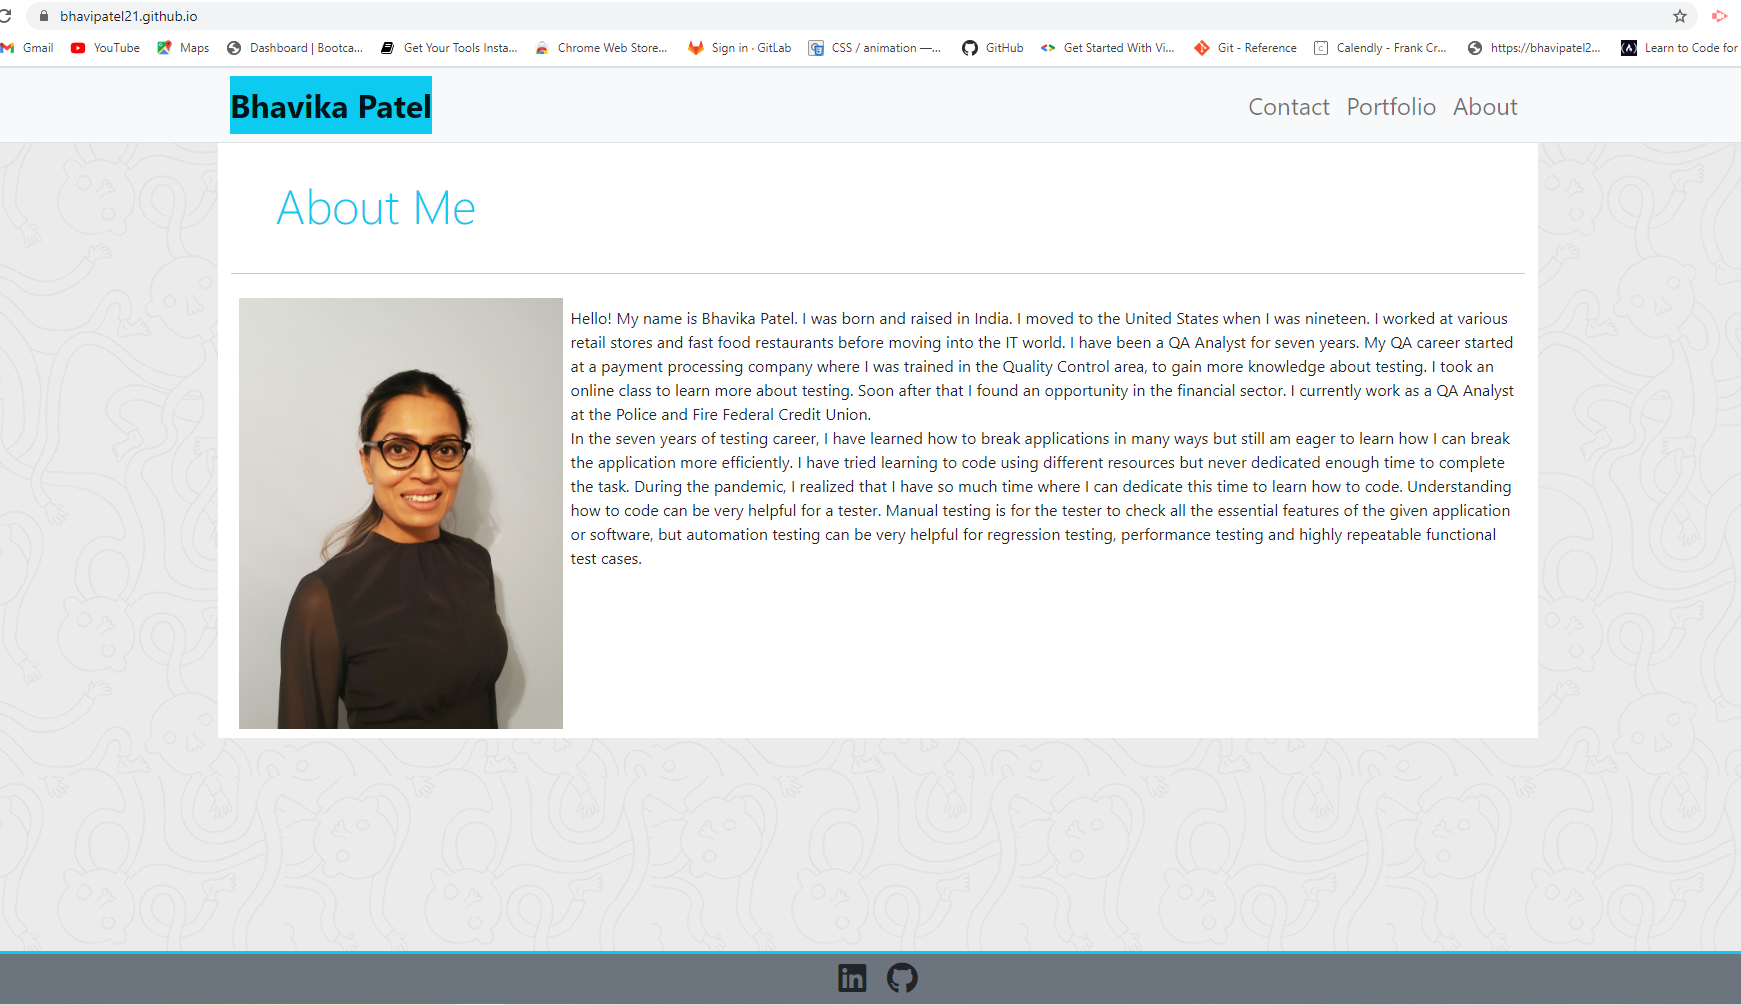
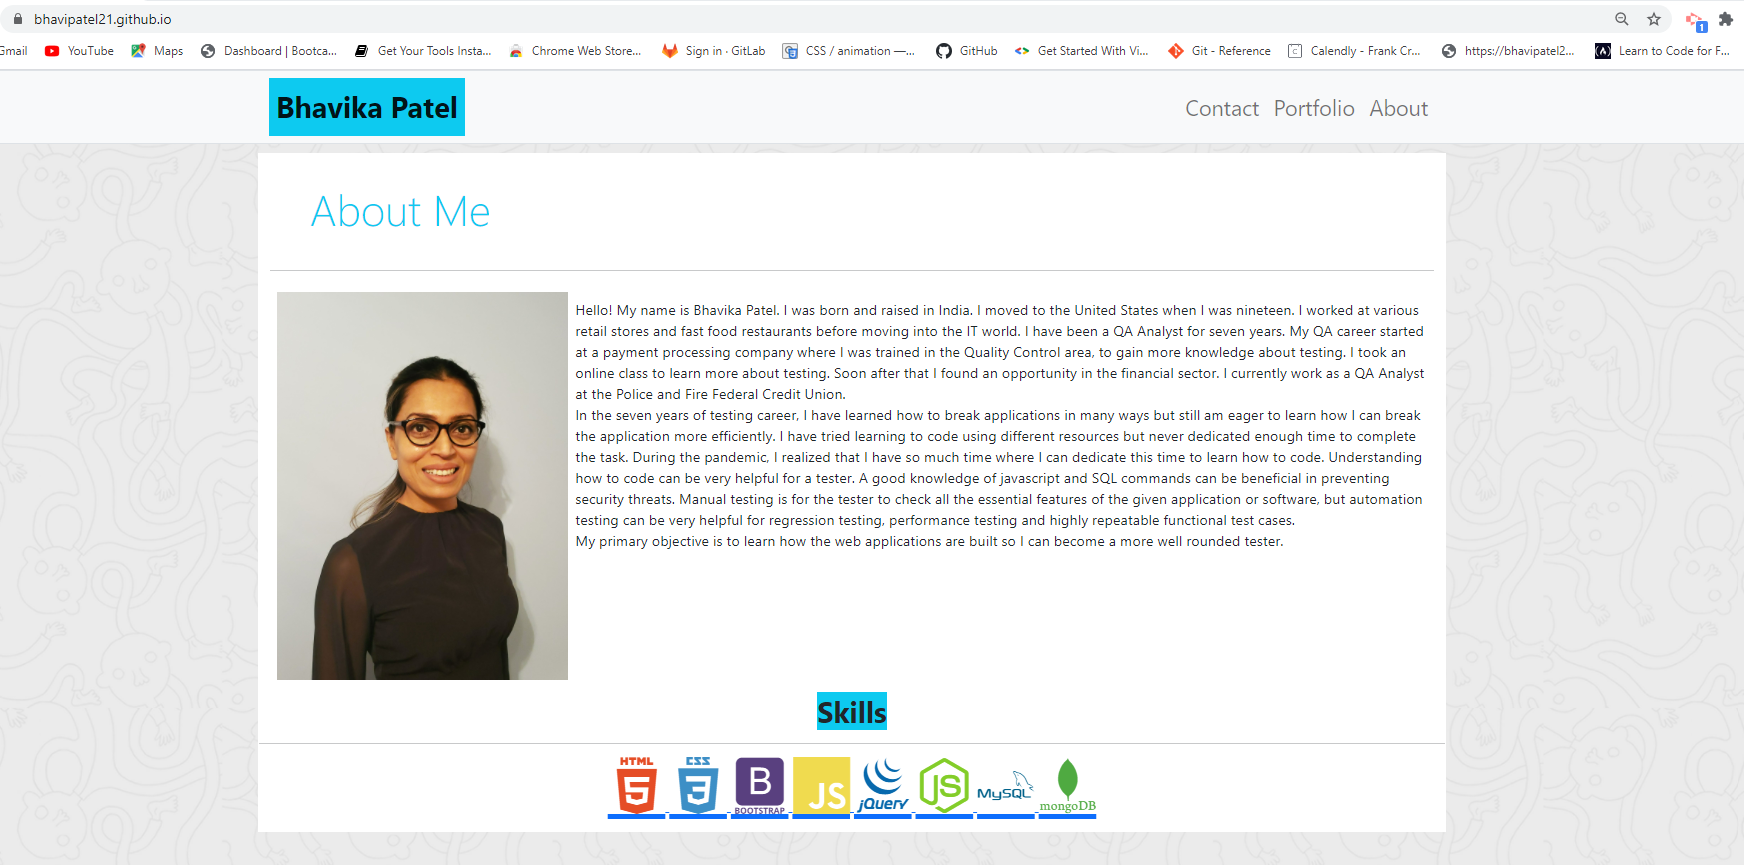
udpated readme

diff --git a/README.md b/README.md
@@ -10,44 +10,8 @@ Using Bootstarp create a resposive portfolio web application which can render we
 
 As a user I should be able to render responsive porfolio web application on any browser or device.
 
-## Acceptance Criteria
 
-* Should include following files files: `index.html`, `portfolio.html` and `contact.html`.
-* Should have following Bootstrap items :
- 
-   * A navbar
- 
-   * A responsive layout
- 
-   * Responsive images
-
-   * The Bootstrap portfolio should minimize the use of media queries.
-
-* Use Screenshots are provided as a reference in the `Assets/Images` folder. Your app does not need to be _exactly_ like the images. Use Bootstrap to create a similar, responsive layout.
-
-* Use Bootstrap's grid system (containers, rows, and columns).
-
-* Use an HTML validation service to ensure that each page has valid HTML.
-
-### Minimum Requirements
-
-* Functional, deployed application
-
-* GitHub repository with README describing the project
-
-* Navbar must be consistent on each page.
-
-* Navbar on each page must contain links to Home/About, Contact, and Portfolio pages.
-
-* All links must work.
-
-* Must use semantic html.
-
-* Each page must have valid and correct HTML. (use a validation service)
-
-* Must contain your personalized information. (bio, name, images, links to social media, etc.)
-
-* Must properly utilize Bootstrap components and grid system.
+##
 
 ## Installation
 
@@ -55,8 +19,12 @@ Navigate to url : https://bhavipatel21.github.io/
 
 
 ## Usage 
+The following image shows the web application's appearance and functionality:
 
 
+![aboutme](./assets/aboutme_01.png)
+![aboutme](./assets/portfplio_02.png)
+![aboutme](./assets/contact_03.png)
 
 
 ## Helpful Links
@@ -65,6 +33,7 @@ Navigate to url : https://bhavipatel21.github.io/
 * [Bootstrap Components](https://getbootstrap.com/docs/4.3/components/alerts/)
 * [GitHub Pages](https://pages.github.com/)
 * [Fontawesome](https://fontawesome.com/)
+* [devicon](https://github.com/devicons/devicon)
 
 
 ## Test Cases 
@@ -82,6 +51,8 @@ Navigate to url : https://bhavipatel21.github.io/
 * Verify each page has correct HTMl using validation service
 
 * Verify Bootstrap components ,classes and grid system utilized 
+
+
 
 
 
